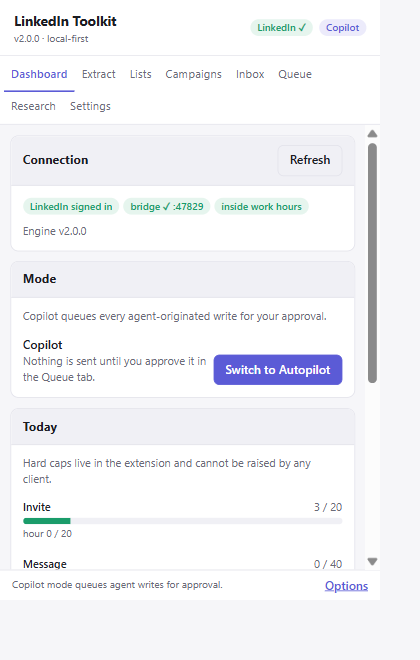
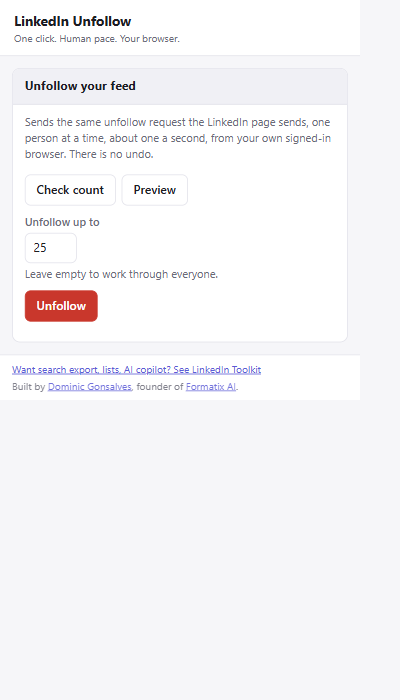
docs: real screenshots of the extension itself
Claude-Session: https://claude.ai/code/session_01LHVXwVjh9fnsduPjsrtdNq

diff --git a/docs/index.html b/docs/index.html
@@ -317,10 +317,7 @@
       <h2>Install it</h2>
       <p class="note">
         Three steps, about two minutes. It is not on the Chrome Web Store —
-        <a href="#store">here is why</a>. The screenshots come from
-        <a href="https://github.com/OpenRecruiterTools/linkedin-toolkit">LinkedIn Toolkit</a>, the
-        bigger project this was carved out of; Chrome's side of the process is identical, only the
-        name on the card differs.
+        <a href="#store">here is why</a>.
       </p>
 
       <div class="step">

diff --git a/README.md b/README.md
@@ -16,10 +16,6 @@ seeing their posts, and your feed goes quiet.
 
 Four steps, about two minutes. It is not on the Chrome Web Store — [see why](#why-it-is-not-in-the-chrome-web-store).
 
-> The screenshots below are from [LinkedIn Toolkit](https://github.com/OpenRecruiterTools/linkedin-toolkit),
-> the bigger project this was carved out of. Chrome's side of the process is
-> identical; only the name on the card differs.
-
 ### 1. Download the zip
 
 Take `linkedin-unfollow.zip` from the
